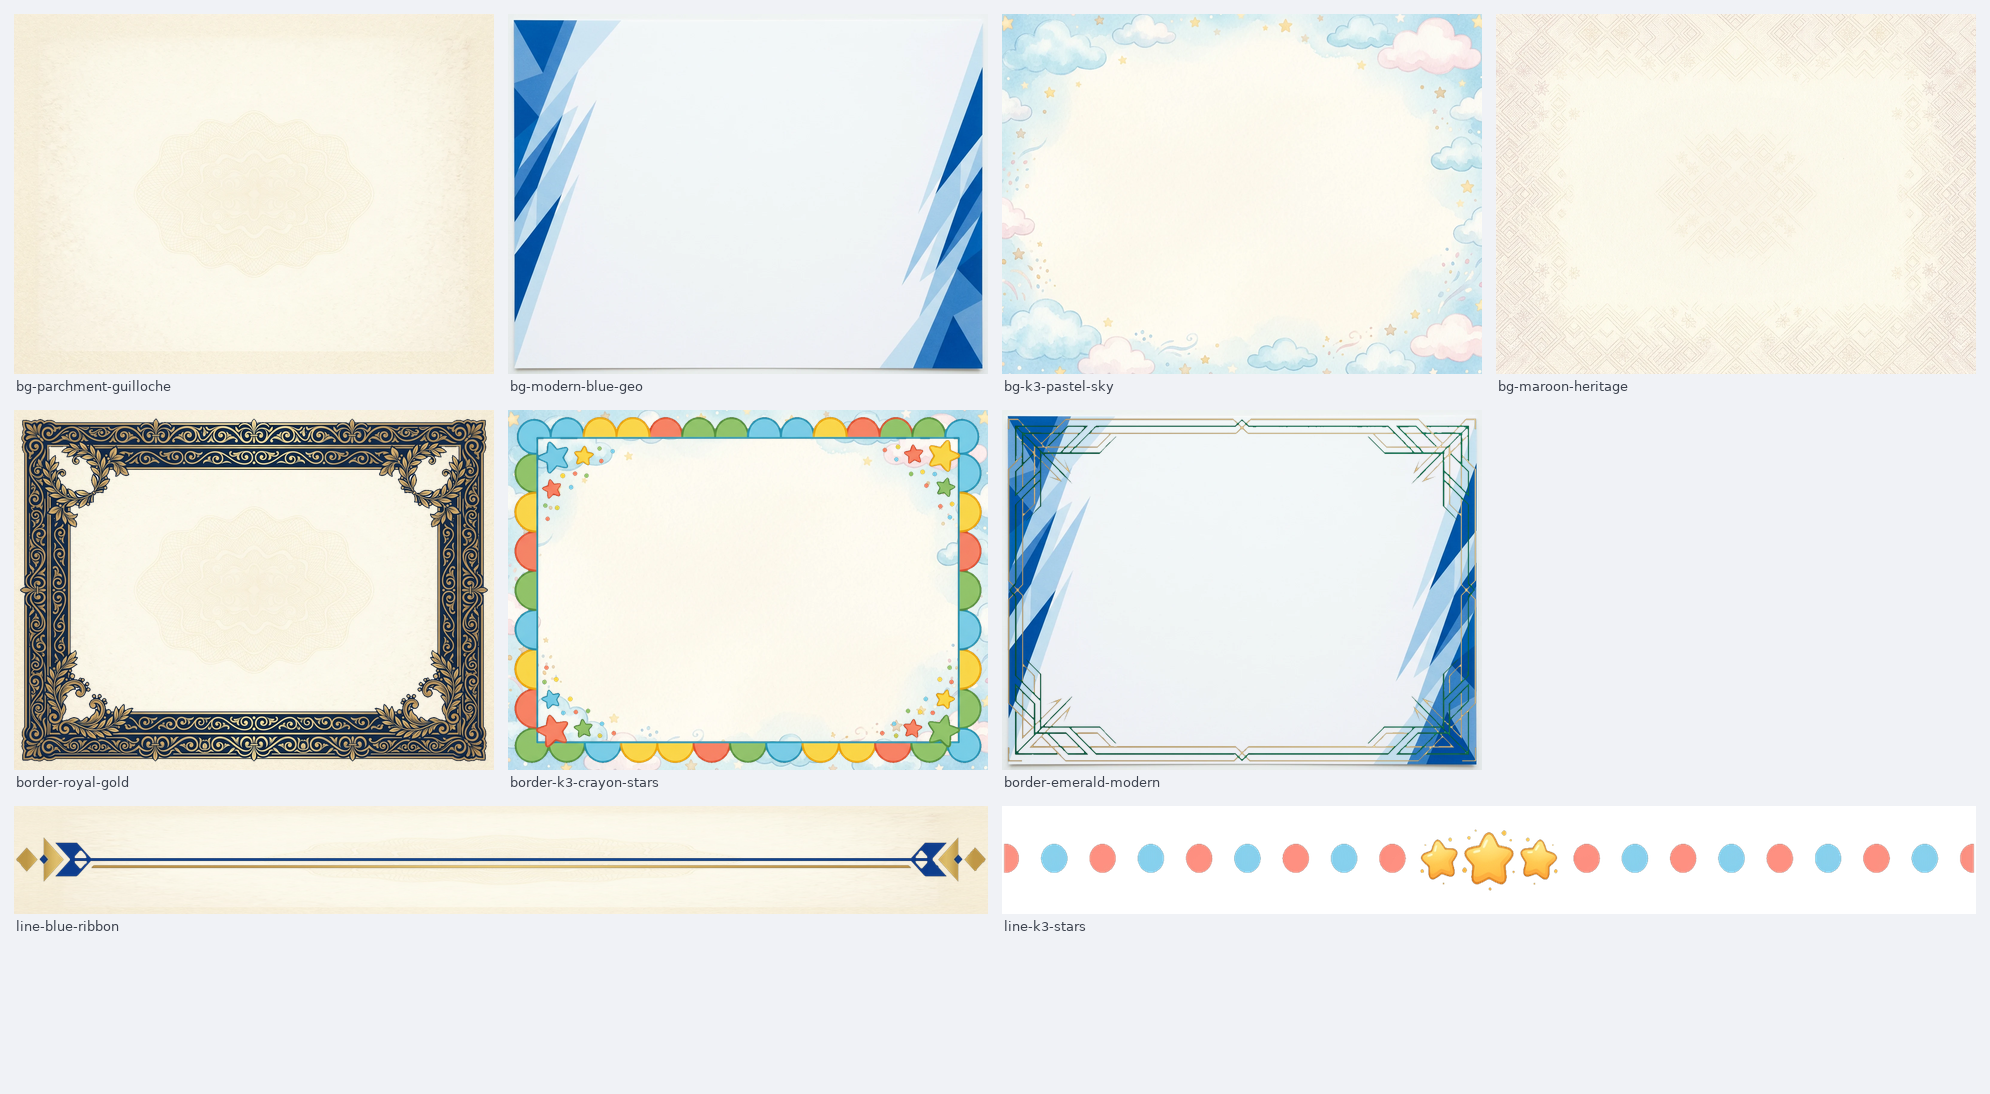
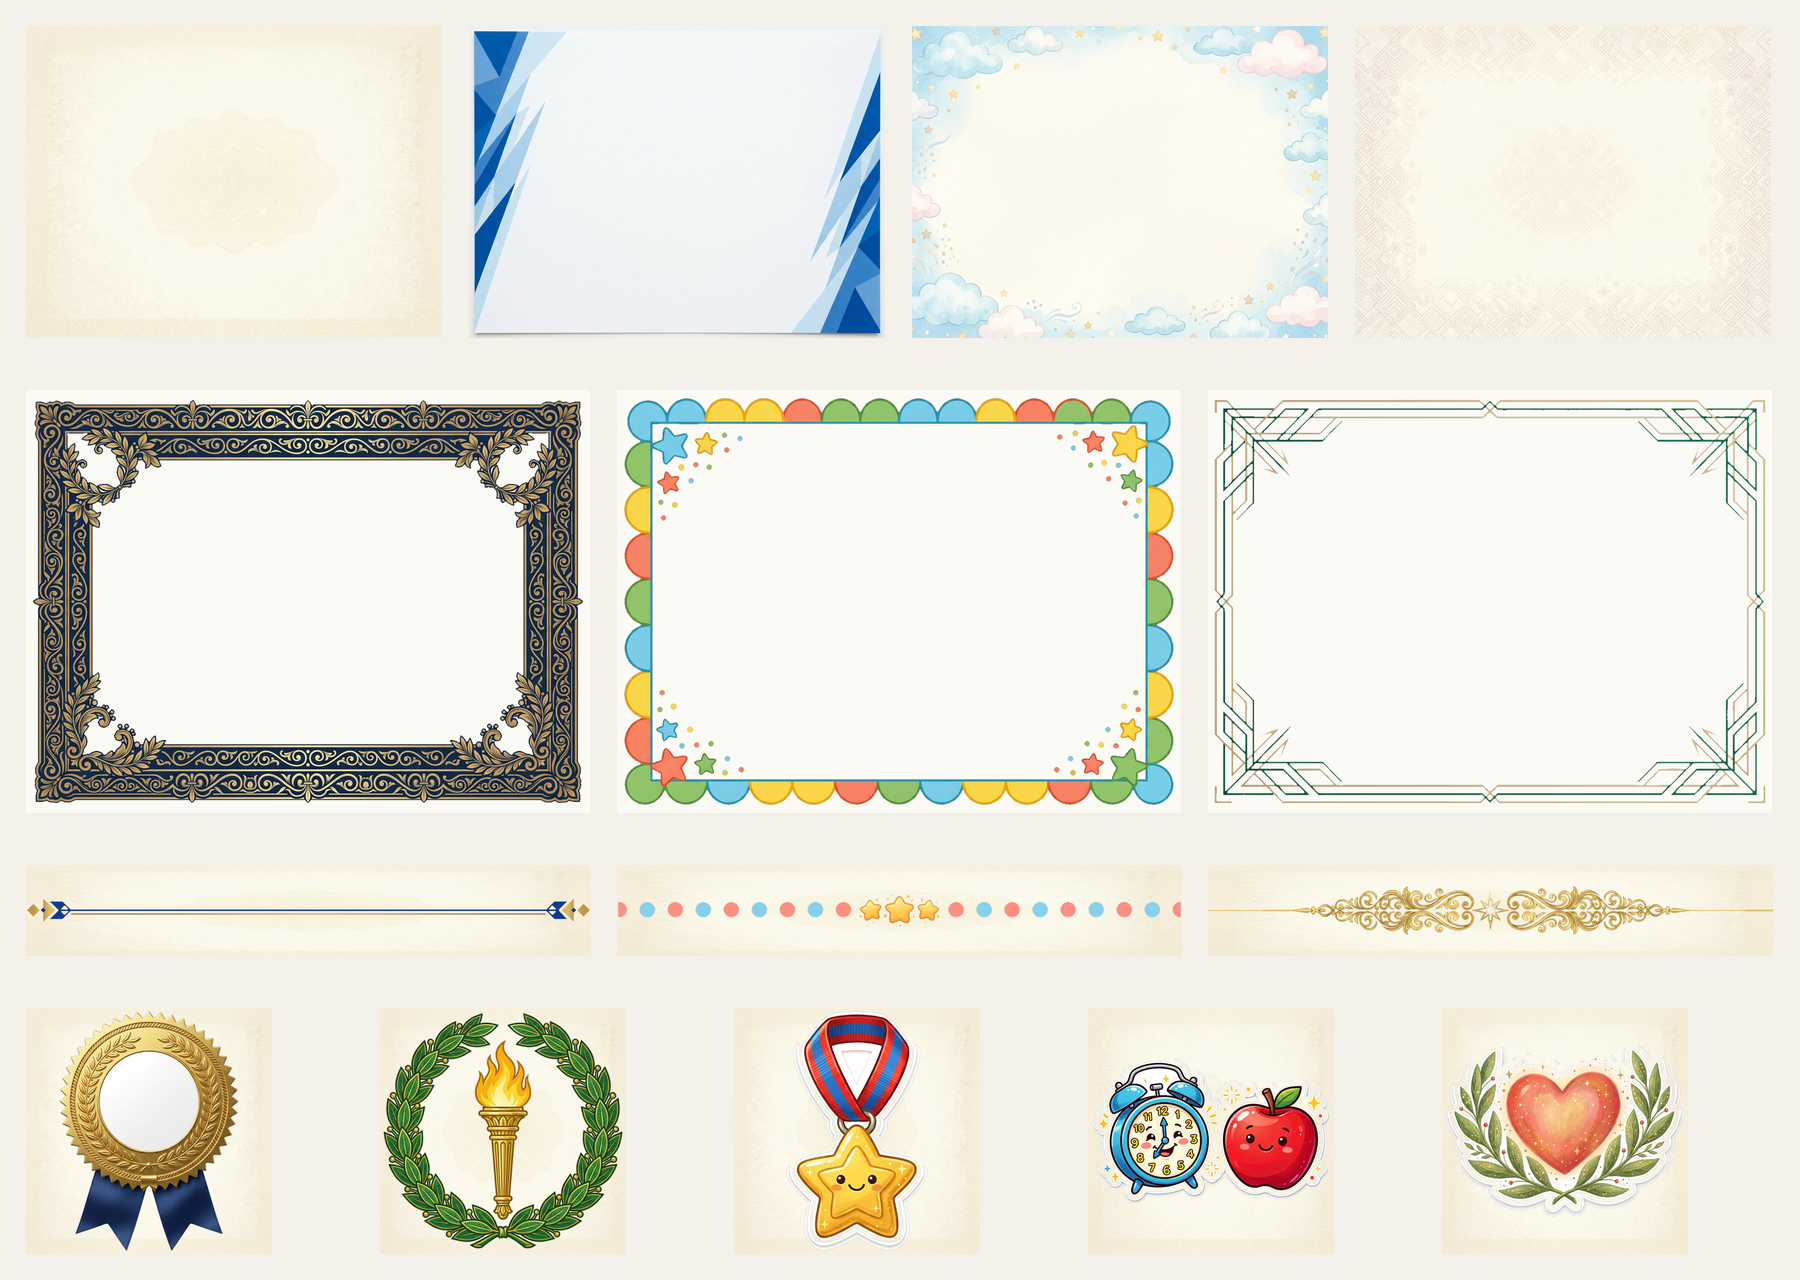
Draw the certificate seals, stickers and gold rule into public/assets/certificates
The last six pieces finish the set: the metallic gold flourish rule, the two
seals (foil with navy ribbons, torch in laurel) and the three K-3 award
stickers. Seals and stickers register through stickerLibrary.ts under a new
`certificates` sticker category, so a template reaches one by id with
`stickerUri()` exactly as it reaches a vector sticker; the rule joins the other
two dividers in the Certificates stock category.

Stickers are the one cut that keying white cannot find — their outline is white
on white — so the matte grows the object a few pixels into the flood and keeps
that ring as the die-cut edge. The gold rule is assembled: the generator draws a
flourish at 5:1, so the ornament keeps its height and a hairline in its own gold
carries each tip out to the edge of the 1200x120 canvas.

check:certs now covers the stamps too (1097 assertions): header, 512x512,
alpha, weight budget, the svg wrapper, and the by-id lookup a template uses.

Changed region(s): [[0.0, 0.0, 0.9956, 0.9945]]

diff --git a/src/constants/stickerLibrary.ts b/src/constants/stickerLibrary.ts
@@ -10,7 +10,8 @@ export type StickerCategory =
   | 'animals'
   | 'plants'
   | 'objects'
-  | 'school-office';
+  | 'school-office'
+  | 'certificates';
 
 export interface StickerDef {
   id: string;
@@ -40,6 +41,22 @@ const makeSticker = (
     svg,
     dataUri: toSvgUri(svg),
   };
+};
+
+/**
+ * The certificate seals and K-3 stickers are drawn by hand as 512×512 transparent PNGs rather than
+ * as SVG paths, so they register through the same catalog with the file itself as the data URI.
+ * `svg` still carries a wrapper so anything that inlines a sticker sees a self-contained document.
+ */
+const makeRasterSticker = (
+  id: string,
+  name: string,
+  category: StickerCategory,
+  src: string,
+  size = 512
+): StickerDef => {
+  const svg = `<svg xmlns="http://www.w3.org/2000/svg" viewBox="0 0 ${size} ${size}" width="${size}" height="${size}"><image href="${src}" x="0" y="0" width="${size}" height="${size}"/></svg>`;
+  return { id, name, category, svg, dataUri: src };
 };
 
 export const STICKER_CATALOG: StickerDef[] = [
@@ -493,6 +510,37 @@ export const STICKER_CATALOG: StickerDef[] = [
      <circle cx="64" cy="36" r="6" fill="#3b82f6"/>
      <circle cx="80" cy="48" r="6" fill="#10b981"/>
      <circle cx="42" cy="64" r="6" fill="#f59e0b"/>`
+  ),
+  // Certificates (seals and K-3 award stickers — hand-drawn PNGs in public/assets/certificates)
+  makeRasterSticker(
+    'cert-seal-gold-foil',
+    'Gold Foil Seal',
+    'certificates',
+    './assets/certificates/cert-seal-gold-foil.png'
+  ),
+  makeRasterSticker(
+    'cert-seal-torch-laurel',
+    'Torch & Laurel Seal',
+    'certificates',
+    './assets/certificates/cert-seal-torch-laurel.png'
+  ),
+  makeRasterSticker(
+    'cert-stk-k3-gold-star',
+    'Smiling Star Medal',
+    'certificates',
+    './assets/certificates/cert-stk-k3-gold-star.png'
+  ),
+  makeRasterSticker(
+    'cert-stk-perfect-attendance',
+    'Perfect Attendance',
+    'certificates',
+    './assets/certificates/cert-stk-perfect-attendance.png'
+  ),
+  makeRasterSticker(
+    'cert-stk-values-heart',
+    'Values Heart',
+    'certificates',
+    './assets/certificates/cert-stk-values-heart.png'
   ),
 ];
 

diff --git a/src/components/ribbon/InsertTab.tsx b/src/components/ribbon/InsertTab.tsx
@@ -413,6 +413,7 @@ export const InsertTab: React.FC = () => {
                   [
                     { id: 'all', label: 'All' },
                     { id: 'vibe', label: 'Vibe Packs' },
+                    { id: 'certificates', label: 'Certificates' },
                     { id: 'people', label: 'People' },
                     { id: 'animals', label: 'Animals' },
                     { id: 'plants', label: 'Plants' },

diff --git a/src/constants/sampleGraphics.ts b/src/constants/sampleGraphics.ts
@@ -1139,4 +1139,12 @@ export const SAMPLE_GRAPHICS: SampleGraphic[] = [
     width: 1200,
     height: 120,
   },
+  {
+    id: 'cert-line-gold-flourish',
+    name: 'Gold Flourish Divider',
+    category: 'Certificates',
+    src: './assets/certificates/cert-line-gold-flourish.png',
+    width: 1200,
+    height: 120,
+  },
 ];

diff --git a/docs/templates.md b/docs/templates.md
@@ -237,11 +237,27 @@ point at them instead of restyling a rectangle:
 | `cert-border-royal-gold.png` | 1600×1200, transparent | navy + gold double filigree, laurel corners |
 | `cert-border-k3-crayon-stars.png` | 1600×1200, transparent | scalloped rainbow edge, hand-drawn stars and confetti |
 | `cert-border-emerald-modern.png` | 1600×1200, transparent | emerald + champagne corner brackets |
-| `cert-line-blue-ribbon.png`, `cert-line-k3-stars.png` | 1200×120, transparent | blue double hairline with gold ends, pastel dots with three stars |
+| `cert-line-blue-ribbon.png` | 1200×120, transparent | blue double hairline with gold ends |
+| `cert-line-k3-stars.png` | 1200×120, transparent | pastel dotted rule with three stars |
+| `cert-line-gold-flourish.png` | 1200×120, transparent | metallic gold scrollwork, diamond star at dead centre |
+| `cert-seal-gold-foil.png` | 512×512, transparent | serrated gold foil, laurel rim, navy swallowtail ribbons, blank centre |
+| `cert-seal-torch-laurel.png` | 512×512, transparent | gold torch inside a green laurel wreath |
+| `cert-stk-k3-gold-star.png` | 512×512, transparent | glossy smiling star medal on a red/blue striped ribbon, white die-cut edge |
+| `cert-stk-perfect-attendance.png` | 512×512, transparent | cartoon alarm clock, red apple and sparkles |
+| `cert-stk-values-heart.png` | 512×512, transparent | glowing heart held by two laurel leaves, gold sparkles |
 
-The seals and K-3 stickers (`cert-seal-*`, `cert-stk-*`, 512×512) are the next batch in the same
-folder and register through `stickerLibrary.ts`, so a certificate can carry one the way it carries
-`stk-gold-seal` today.
+Grounds, frames and rules register in `sampleGraphics.ts` under the **Certificates** category; the
+seals and K-3 stickers register in `stickerLibrary.ts` under a `certificates` sticker category, so a
+template reaches them through `stickerUri(id)` exactly as it reaches `stk-gold-seal` — `StickerDef`
+requires an inline `svg` plus a `dataUri`, and `makeRasterSticker` fills both for a drawn PNG (the
+`svg` wraps an `<image>` of the file). Seals insert as images, not as grounds; the K-3 stickers carry
+their own die-cut white edge so they read on cream paper without the app drawing one.
+
+**The gold rule is assembled, not drawn.** The generator will not draw a 10:1 ornament that is all
+ornament — a flourish asking for a divider comes back at 5:1, and squeezing it into 1200×120 shrinks
+it to two-thirds of the canvas. So the ornament keeps its own height and a hairline in its own gold
+is carried from each tip out to the edge; the rule therefore fills its canvas, stays symmetrical
+about the diamond star, and is still one file at the size the template expects.
 
 **Grounds insert as the page.** `SampleGraphic` gained `width`, `height` and `insertAs: 'page'`.
 A ground is placed at 0,0 at the page's own size, `objectFit: 'fill'`, `zIndex: 1`, ratio unlocked —
@@ -255,7 +271,10 @@ rule, the pockets between laurel leaves) so nothing reads as a white patch on cr
 result is trimmed to its ink, given 1.2% transparent breathing room and scaled to its canvas.
 Backgrounds take the opposite treatment: the outer 3% comes off (the generator likes to draw a sheet
 on a desk, shadow included) and the middle is eased toward the paper tone so a watermark medallion
-never fights the name printed over it. The matte is a probe, not product code — the shipped files
+never fights the name printed over it. Stickers are the one cut that cannot be found by keying white — their outline *is* white on white, so
+the flood has nothing to stop at. The matte grows the object a few pixels into the flood instead: the
+ring it keeps is the die-cut edge, and the line lands where a sticker's edge belongs rather than on
+the artwork. The matte is a probe, not product code — the shipped files
 are the deliverable, and `check:certs` asserts every one of them resolves, is the size it claims, and
 carries an alpha channel where it must.
 
@@ -313,7 +332,7 @@ past the bottom margin is not spread at all.
 - Every page was rasterised (Pillow, DejaVu) and inspected page by page: the veils, the composed
   posters and invitations, and the pages the guard left alone all read correctly. The renderer
   lives outside the repo (it is a probe, not product code).
-- `npm run check:certs` — 1041 assertions over the six certificates and their art: family is one the app loads,
+- `npm run check:certs` — 1097 assertions over the six certificates and their art: family is one the app loads,
   no typed-in signature, a rule at 1.5px under every name, the requested WordArt style and face on
   every title, logo slots still empty, QR blocks holding a URL, every non-WordArt colour clearing
   4.5:1 (3:1 at display sizes) against the shape actually behind it, and both pipeline stages
